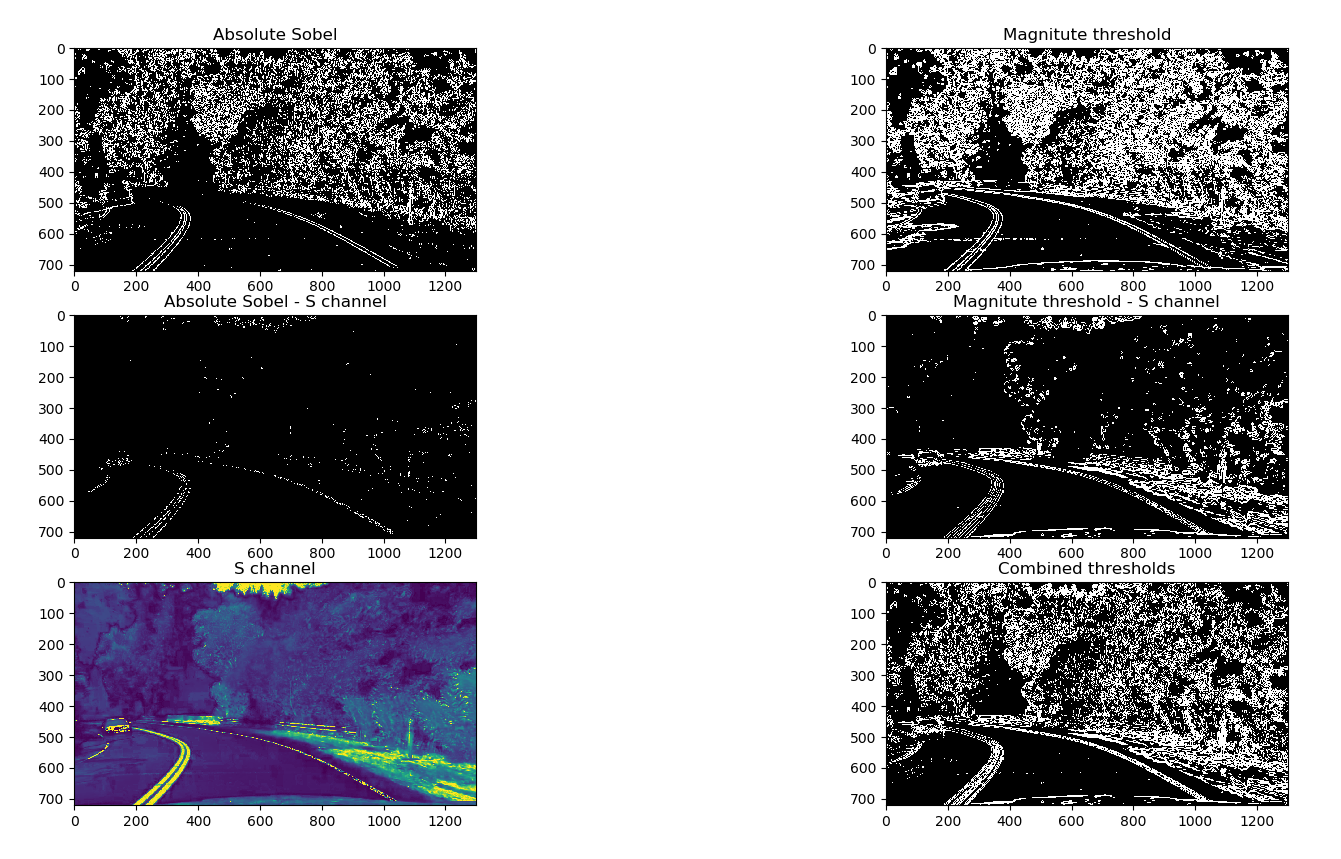
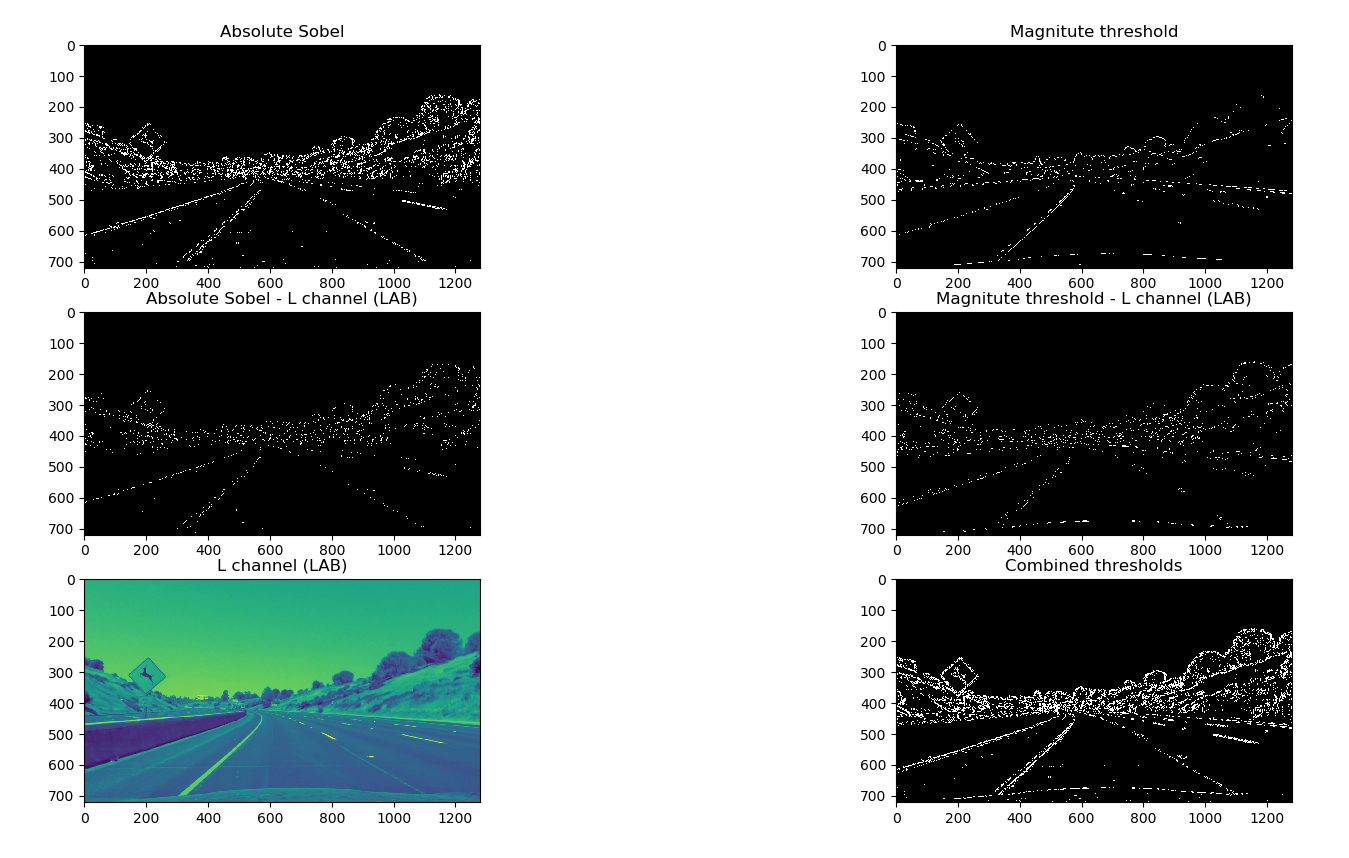
Add test image from video with shadows

diff --git a/WriteUp.html b/WriteUp.html
@@ -13177,7 +13177,7 @@ To execute camera calibration set <strong>recalibrate</strong> parameters to Tru
 </div><div class="inner_cell">
 <div class="text_cell_render border-box-sizing rendered_html">
 <h2 id="Color-spaces-and-gradient">Color spaces and gradient<a class="anchor-link" href="#Color-spaces-and-gradient">&#182;</a></h2><p>Next step is to convert undistorted image to binary by applying absolute sobel edge threshold and magnitude thresholds. <br>
-Input image is converted into <strong>grayscale</strong> and into <strong>HLS</strong> colour space. From HLS colour space dimension containing <strong>S</strong> channel is extracted. <br>
+Input image is converted into <strong>grayscale</strong> and into <strong>LAB</strong> colour space. From LAB colour space dimension containing <strong>L</strong> channel is extracted. <br>
 Result of grayscale are concatenated using <strong>and</strong> operator. Same for S channel. <br>
 And two final results united into one using <strong>or</strong> operator.</p>
 
@@ -13199,16 +13199,16 @@ And two final results united into one using <strong>or</strong> operator.</p>
 <div class="prompt input_prompt">In&nbsp;[&nbsp;]:</div>
 <div class="inner_cell">
     <div class="input_area">
-<div class=" highlight hl-ipython3"><pre><span></span><span class="c1"># 0. Get S channel from input image</span>
-    <span class="n">s_channel_img</span> <span class="o">=</span> <span class="n">get_S_channel</span><span class="p">(</span><span class="n">input_img</span><span class="p">)</span>
+<div class=" highlight hl-ipython3"><pre><span></span><span class="c1"># 0. Get L (LAB) channel from input image</span>
+    <span class="n">l_channel_img</span> <span class="o">=</span> <span class="n">get_L_channel</span><span class="p">(</span><span class="n">input_img</span><span class="p">)</span>
 
     <span class="c1"># 1. Calculate absolute threshold and magnitude threshold for grayscale image</span>
     <span class="n">abs_sobel_bin_img</span> <span class="o">=</span> <span class="n">abs_sobel_thresh</span><span class="p">(</span><span class="n">input_img</span><span class="p">,</span> <span class="n">orient</span><span class="o">=</span><span class="s1">&#39;x&#39;</span><span class="p">,</span> <span class="n">thresh</span><span class="o">=</span><span class="p">(</span><span class="mi">20</span><span class="p">,</span> <span class="mi">100</span><span class="p">))</span>
     <span class="n">mag_thresh_bin_img</span> <span class="o">=</span> <span class="n">mag_thresh</span><span class="p">(</span><span class="n">input_img</span><span class="p">,</span> <span class="n">sobel_kernel</span><span class="o">=</span><span class="mi">5</span><span class="p">,</span> <span class="n">mag_thresh</span><span class="o">=</span><span class="p">(</span><span class="mi">20</span><span class="p">,</span> <span class="mi">100</span><span class="p">))</span>
 
     <span class="c1"># 2.  Calculate absolute threshold and magnitude threshold for s channel image</span>
-    <span class="n">abs_sobel_bin_img_gray</span> <span class="o">=</span> <span class="n">abs_sobel_thresh</span><span class="p">(</span><span class="n">s_channel_img</span><span class="p">,</span> <span class="n">orient</span><span class="o">=</span><span class="s1">&#39;x&#39;</span><span class="p">,</span> <span class="n">thresh</span><span class="o">=</span><span class="p">(</span><span class="mi">50</span><span class="p">,</span> <span class="mi">100</span><span class="p">))</span>
-    <span class="n">mag_thresh_bin_img_gray</span> <span class="o">=</span> <span class="n">mag_thresh</span><span class="p">(</span><span class="n">s_channel_img</span><span class="p">,</span> <span class="n">sobel_kernel</span><span class="o">=</span><span class="mi">15</span><span class="p">,</span> <span class="n">mag_thresh</span><span class="o">=</span><span class="p">(</span><span class="mi">30</span><span class="p">,</span> <span class="mi">100</span><span class="p">))</span>
+    <span class="n">abs_sobel_bin_img_gray</span> <span class="o">=</span> <span class="n">abs_sobel_thresh</span><span class="p">(</span><span class="n">l_channel_img</span><span class="p">,</span> <span class="n">orient</span><span class="o">=</span><span class="s1">&#39;x&#39;</span><span class="p">,</span> <span class="n">thresh</span><span class="o">=</span><span class="p">(</span><span class="mi">50</span><span class="p">,</span> <span class="mi">100</span><span class="p">))</span>
+    <span class="n">mag_thresh_bin_img_gray</span> <span class="o">=</span> <span class="n">mag_thresh</span><span class="p">(</span><span class="n">l_channel_img</span><span class="p">,</span> <span class="n">sobel_kernel</span><span class="o">=</span><span class="mi">15</span><span class="p">,</span> <span class="n">mag_thresh</span><span class="o">=</span><span class="p">(</span><span class="mi">30</span><span class="p">,</span> <span class="mi">100</span><span class="p">))</span>
 
     <span class="c1"># Combine the two binary thresholds</span>
     <span class="n">combined_binary</span> <span class="o">=</span> <span class="n">np</span><span class="o">.</span><span class="n">zeros_like</span><span class="p">(</span><span class="n">s_channel_img</span><span class="p">)</span>
@@ -13592,6 +13592,7 @@ For this project we assume that the lane is about 30 meters long and 3.7 meters 
 It was very intresting to compare "histogram" and "convolution" approaches. Also it is useful to know that applying threshold using different colour spaces and combine results may give much better output than just grayscale. <br></p>
 <h3 id="Weak-points">Weak points<a class="anchor-link" href="#Weak-points">&#182;</a></h3><p>Implemented pipeline requires a lot of user iteraction, such as chosing source and destination points for perspective transformation and mask region of interest. Also the curvation and deviation measurements are very approximate due to guessing the match between source and destination points for transformation. Also the algorithm is not adapted for situation changes such as change of lane form.<br>
 In that case it is required to use additional sensors in order to increase precion level. <br></p>
+<h2 id="Ways-to-improve">Ways to improve<a class="anchor-link" href="#Ways-to-improve">&#182;</a></h2><p>Store information about previously found lane points and use them to calculate region of interest for next frame.</p>
 
 </div>
 </div>

diff --git a/Project/combine_thresholds.py b/Project/combine_thresholds.py
@@ -145,7 +145,7 @@ def get_V_channel_Luv(img_rgb):
 
 def get_L_channel_LAB(img_rgb):
     lab_img = cv2.cvtColor(img_rgb, cv2.COLOR_RGB2LAB)
-    l_channel_img = lab_img[:, :, 2]
+    l_channel_img = lab_img[:, :, 0]
     return l_channel_img
 
 
@@ -162,7 +162,7 @@ def convert_and_threshold(input_img, thresholds, visu=False):
     '''
 
     # 0. Get L channel from input image
-    l_channel_img = get_L_channel_LAB(input_img)
+    channel_img = get_L_channel_LAB(input_img)
 
     # 1. Calculate absolute threshold and magnitude threshold for grayscale image
     abs_sobel_bin_img = abs_sobel_thresh(input_img, orient='x',
@@ -171,13 +171,13 @@ def convert_and_threshold(input_img, thresholds, visu=False):
     thresholds.grayscale_magnitude_bottom, thresholds.grayscale_magnitude_upper))
 
     # 2.  Calculate absolute threshold and magnitude threshold for s channel image
-    abs_sobel_bin_img_gray = abs_sobel_thresh(l_channel_img, orient='x', thresh=(
+    abs_sobel_bin_img_gray = abs_sobel_thresh(channel_img, orient='x', thresh=(
     thresholds.channel_abs_bottom, thresholds.channel_abs_upper))
-    mag_thresh_bin_img_gray = mag_thresh(l_channel_img, sobel_kernel=15, mag_thresh=(
+    mag_thresh_bin_img_gray = mag_thresh(channel_img, sobel_kernel=15, mag_thresh=(
     thresholds.channel_magnitude_bottom, thresholds.channel_magnitude_upper))
 
     # Combine the two binary thresholds
-    combined_binary = np.zeros_like(l_channel_img)
+    combined_binary = np.zeros_like(channel_img)
     combined_binary[((abs_sobel_bin_img == 1) | (mag_thresh_bin_img == 1))
                     | ((abs_sobel_bin_img_gray == 1) | (mag_thresh_bin_img_gray == 1))] = 1
 
@@ -194,14 +194,14 @@ def convert_and_threshold(input_img, thresholds, visu=False):
         ax2.set_title('Magnitute threshold')
         ax2.imshow(mag_thresh_bin_img, cmap='gray')
 
-        ax3.set_title('Absolute Sobel - S channel')
+        ax3.set_title('Absolute Sobel - L channel (LAB)')
         ax3.imshow(abs_sobel_bin_img_gray, cmap='gray')
 
-        ax4.set_title('Magnitute threshold - S channel')
+        ax4.set_title('Magnitute threshold - L channel (LAB)')
         ax4.imshow(mag_thresh_bin_img_gray, cmap='gray')
 
-        ax5.set_title('S channel')
-        ax5.imshow(l_channel_img)
+        ax5.set_title('L channel (LAB)')
+        ax5.imshow(channel_img)
 
         ax6.set_title('Combined thresholds')
         ax6.imshow(combined_binary, cmap='gray')

diff --git a/Project/main.py b/Project/main.py
@@ -23,18 +23,18 @@ def test_on_test_images():
 def test_on_image(fname = '../test_images/test7.jpg'):
     cam_mtx, dist_coeff = camera_calibration.get_calib_parameters()
     img = cv2.imread(fname)
-    M, Minv, mask_points, result = frame_pipeline.first_frame_pipeline(img, cam_mtx, dist_coeff)
+    M, Minv, mask_points, mask_points_inner, result = frame_pipeline.first_frame_pipeline(img, cam_mtx, dist_coeff)
     save_image(result, ntpath.basename(fname))
     plt.imshow(cv2.cvtColor(result, cv2.COLOR_BGR2RGB))
     plt.show()
 
 def test_process_video():
-    video_full_name = "../videos/harder_challenge_video.mp4"
+    video_full_name = "../videos/project_video.mp4"
     cam_mtx, dist_coeff = camera_calibration.get_calib_parameters()
     process_video.process_video(video_full_name, cam_mtx, dist_coeff, output_video_name = "resulting_video.avi")
 
 if __name__ == '__main__':
-    #test_on_image()
+    test_on_image()
     #test_on_test_images()
-    test_process_video()
+    #test_process_video()
 
